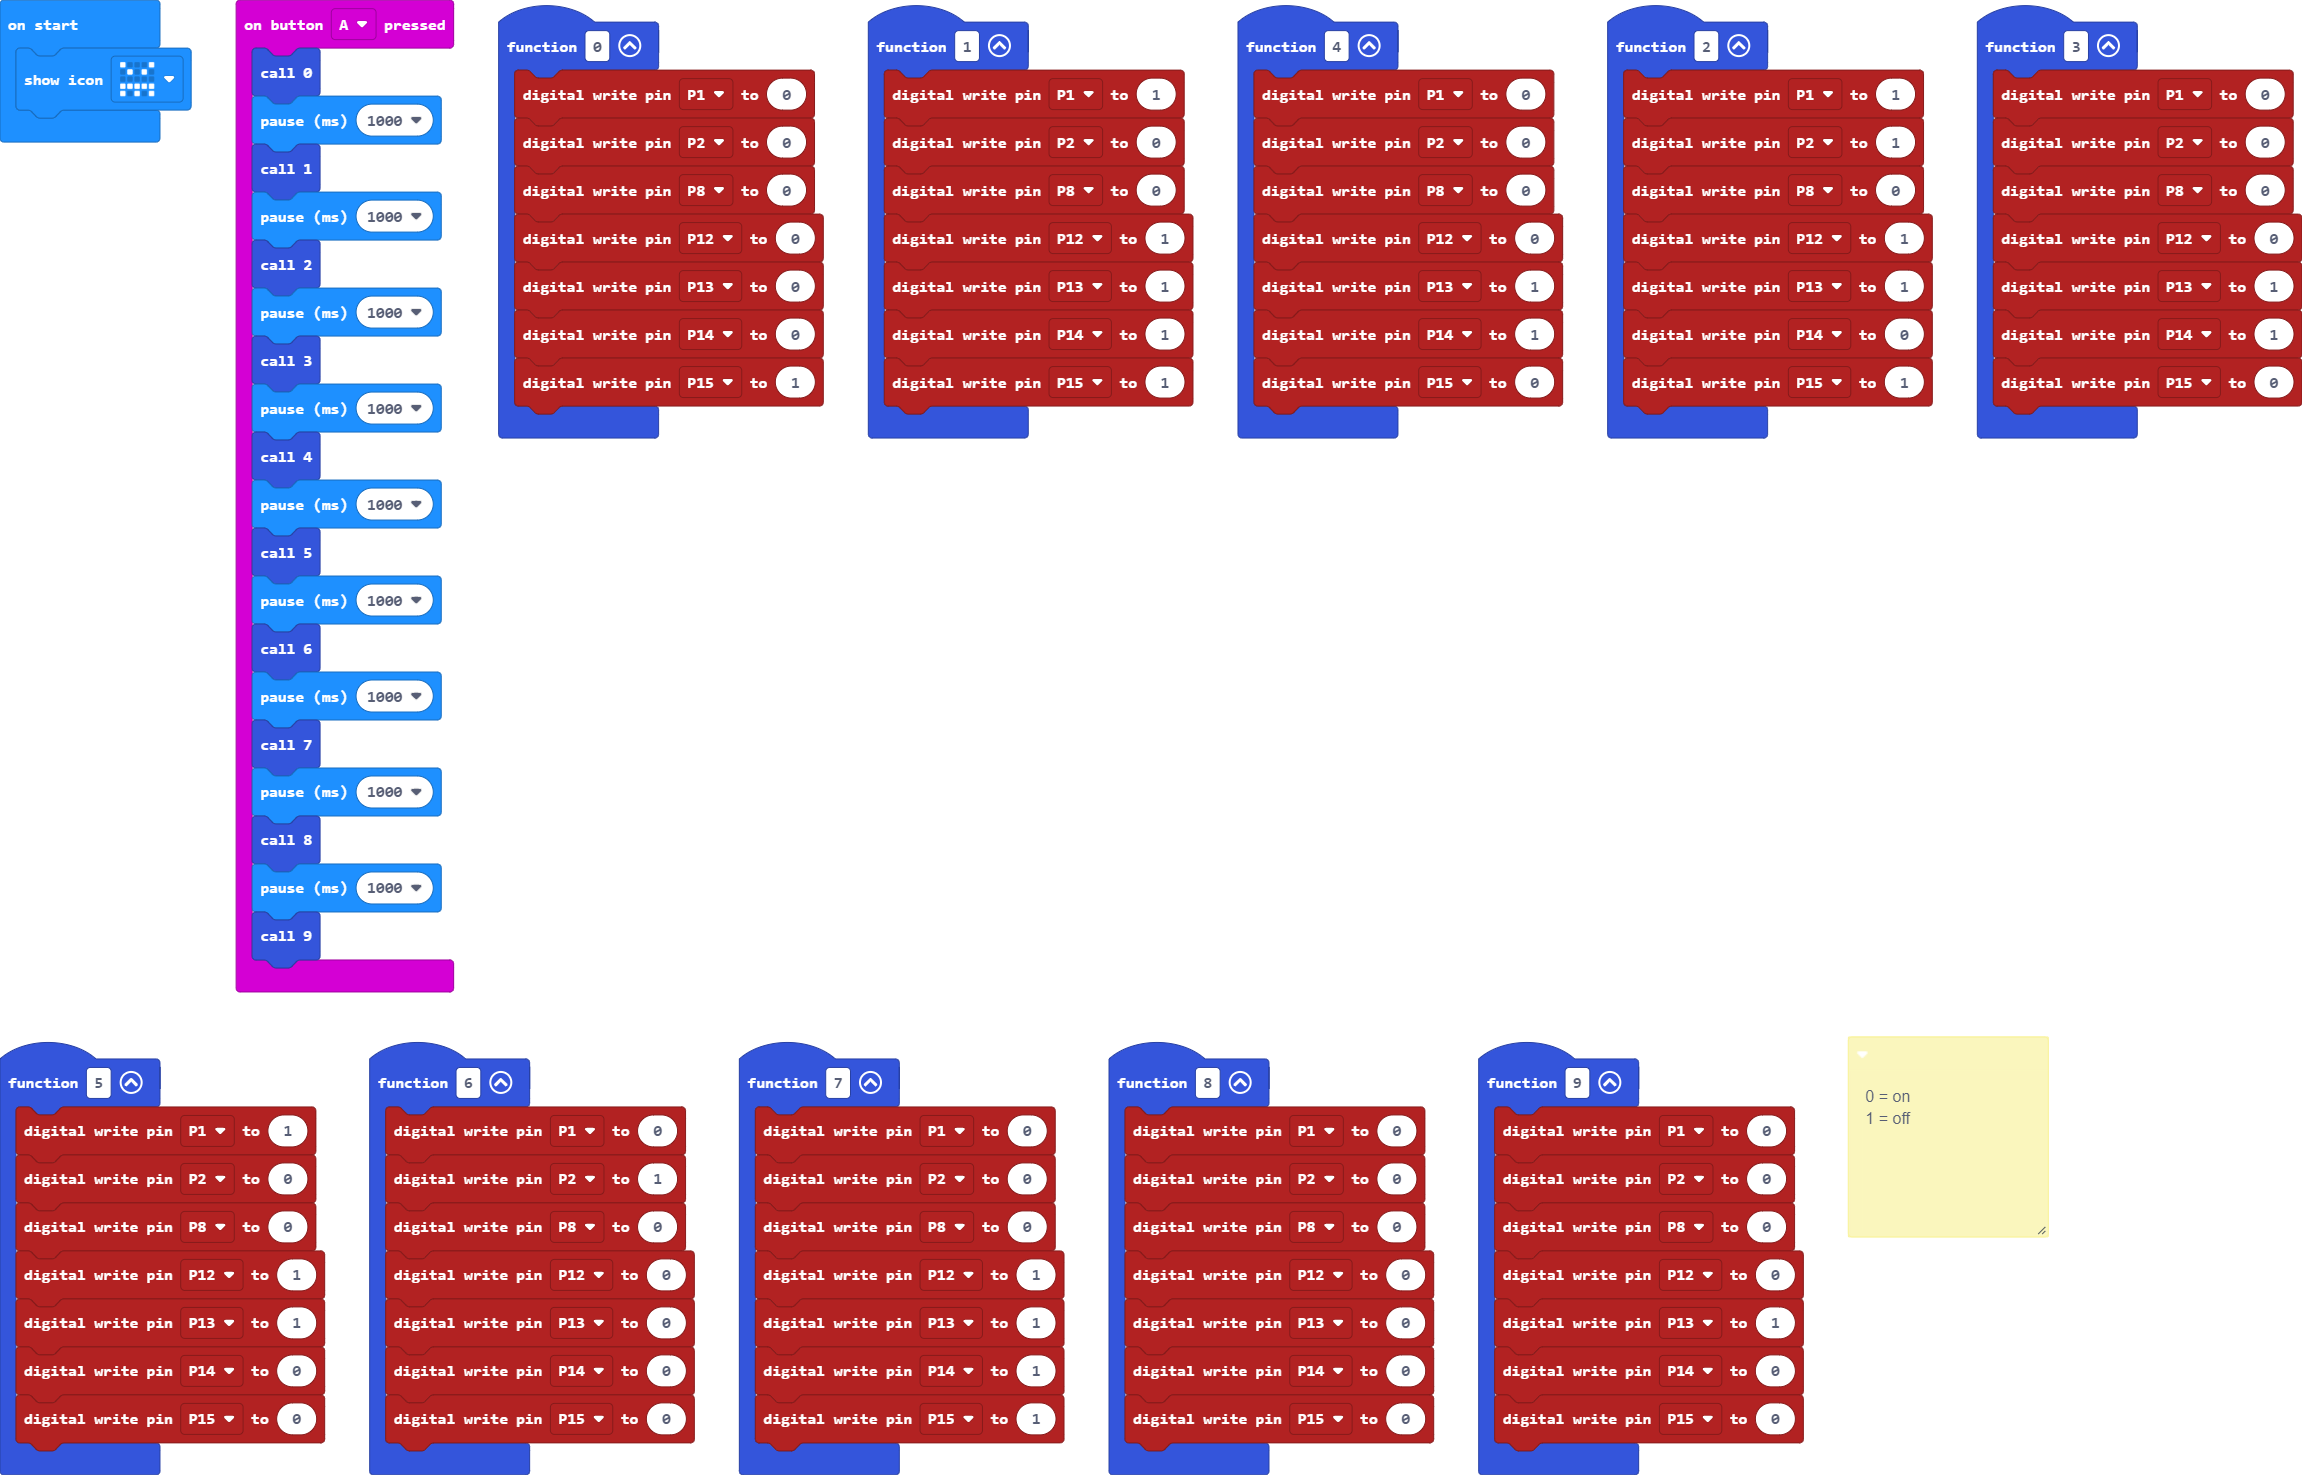
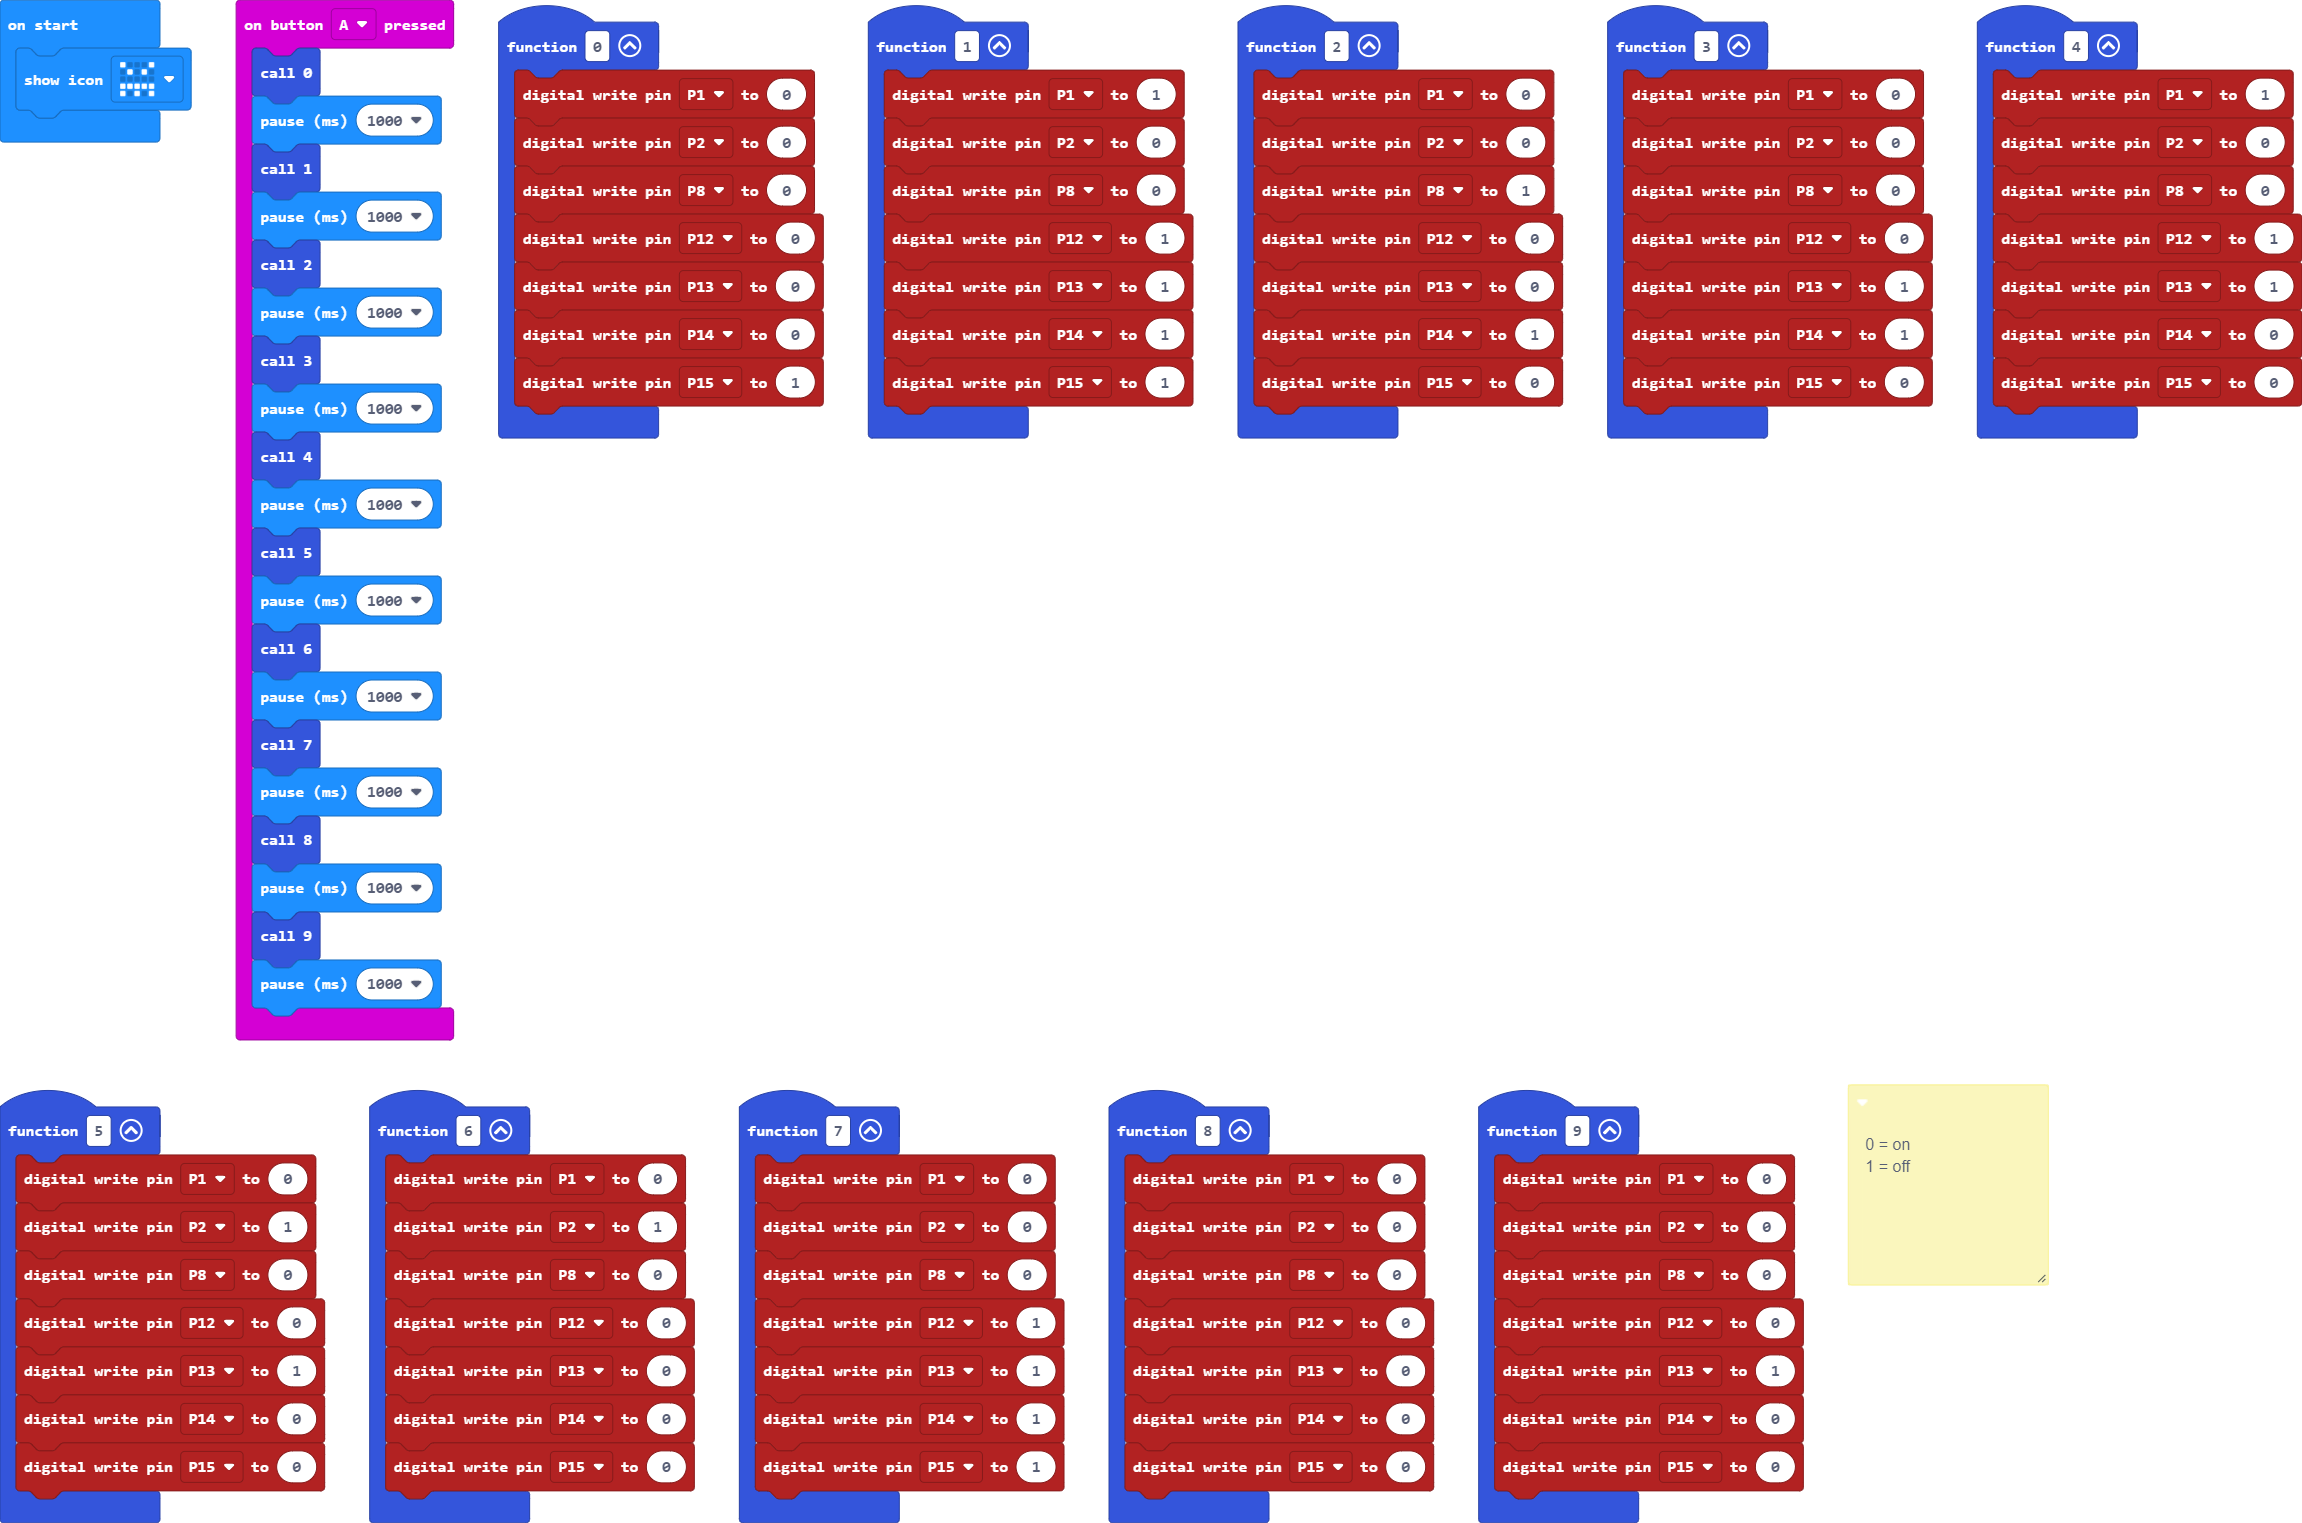
Update main.blocks, main.ts

diff --git a/main.ts b/main.ts
@@ -13,13 +13,13 @@ function _7 () {
     pins.digitalWritePin(DigitalPin.P15, 1)
 }
 function _2 () {
-    pins.digitalWritePin(DigitalPin.P1, 1)
-    pins.digitalWritePin(DigitalPin.P2, 1)
-    pins.digitalWritePin(DigitalPin.P8, 0)
-    pins.digitalWritePin(DigitalPin.P12, 1)
-    pins.digitalWritePin(DigitalPin.P13, 1)
-    pins.digitalWritePin(DigitalPin.P14, 0)
-    pins.digitalWritePin(DigitalPin.P15, 1)
+    pins.digitalWritePin(DigitalPin.P1, 0)
+    pins.digitalWritePin(DigitalPin.P2, 0)
+    pins.digitalWritePin(DigitalPin.P8, 1)
+    pins.digitalWritePin(DigitalPin.P12, 0)
+    pins.digitalWritePin(DigitalPin.P13, 0)
+    pins.digitalWritePin(DigitalPin.P14, 1)
+    pins.digitalWritePin(DigitalPin.P15, 0)
 }
 function _6 () {
     pins.digitalWritePin(DigitalPin.P1, 0)
@@ -50,6 +50,7 @@ input.onButtonPressed(Button.A, function () {
     _8()
     basic.pause(1000)
     _9()
+    basic.pause(1000)
 })
 function _9 () {
     pins.digitalWritePin(DigitalPin.P1, 0)
@@ -61,10 +62,10 @@ function _9 () {
     pins.digitalWritePin(DigitalPin.P15, 0)
 }
 function _5 () {
-    pins.digitalWritePin(DigitalPin.P1, 1)
-    pins.digitalWritePin(DigitalPin.P2, 0)
+    pins.digitalWritePin(DigitalPin.P1, 0)
+    pins.digitalWritePin(DigitalPin.P2, 1)
     pins.digitalWritePin(DigitalPin.P8, 0)
-    pins.digitalWritePin(DigitalPin.P12, 1)
+    pins.digitalWritePin(DigitalPin.P12, 0)
     pins.digitalWritePin(DigitalPin.P13, 1)
     pins.digitalWritePin(DigitalPin.P14, 0)
     pins.digitalWritePin(DigitalPin.P15, 0)
@@ -97,12 +98,12 @@ function _0 () {
     pins.digitalWritePin(DigitalPin.P15, 1)
 }
 function _4 () {
-    pins.digitalWritePin(DigitalPin.P1, 0)
+    pins.digitalWritePin(DigitalPin.P1, 1)
     pins.digitalWritePin(DigitalPin.P2, 0)
     pins.digitalWritePin(DigitalPin.P8, 0)
-    pins.digitalWritePin(DigitalPin.P12, 0)
+    pins.digitalWritePin(DigitalPin.P12, 1)
     pins.digitalWritePin(DigitalPin.P13, 1)
-    pins.digitalWritePin(DigitalPin.P14, 1)
+    pins.digitalWritePin(DigitalPin.P14, 0)
     pins.digitalWritePin(DigitalPin.P15, 0)
 }
 function _1 () {
